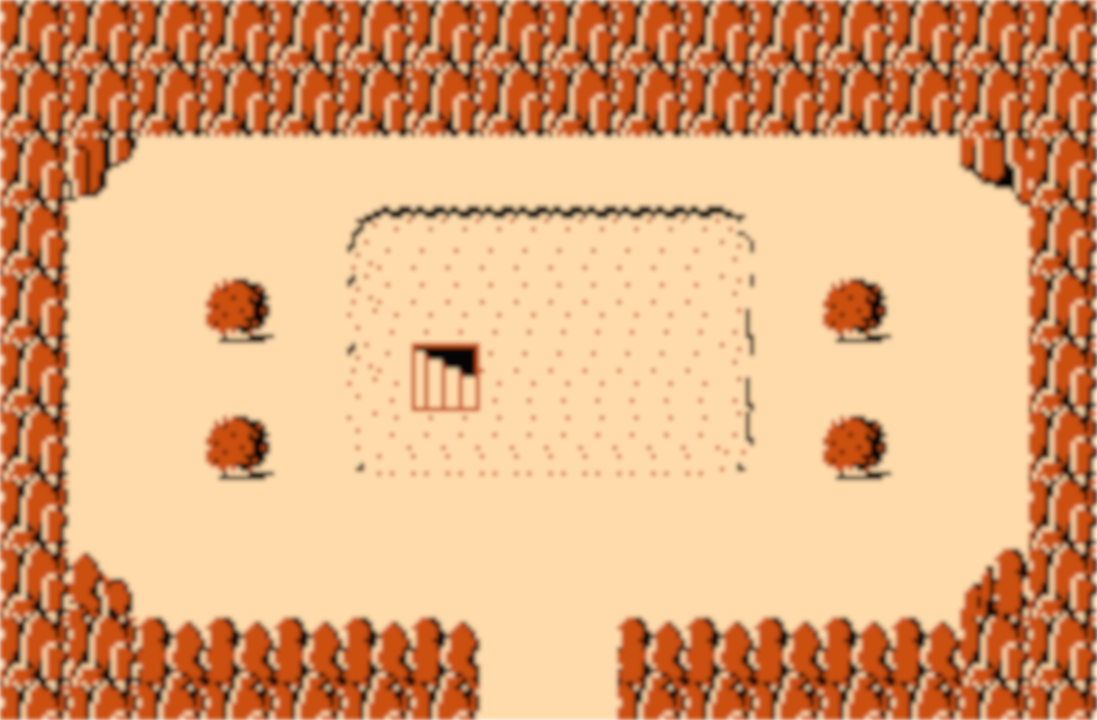
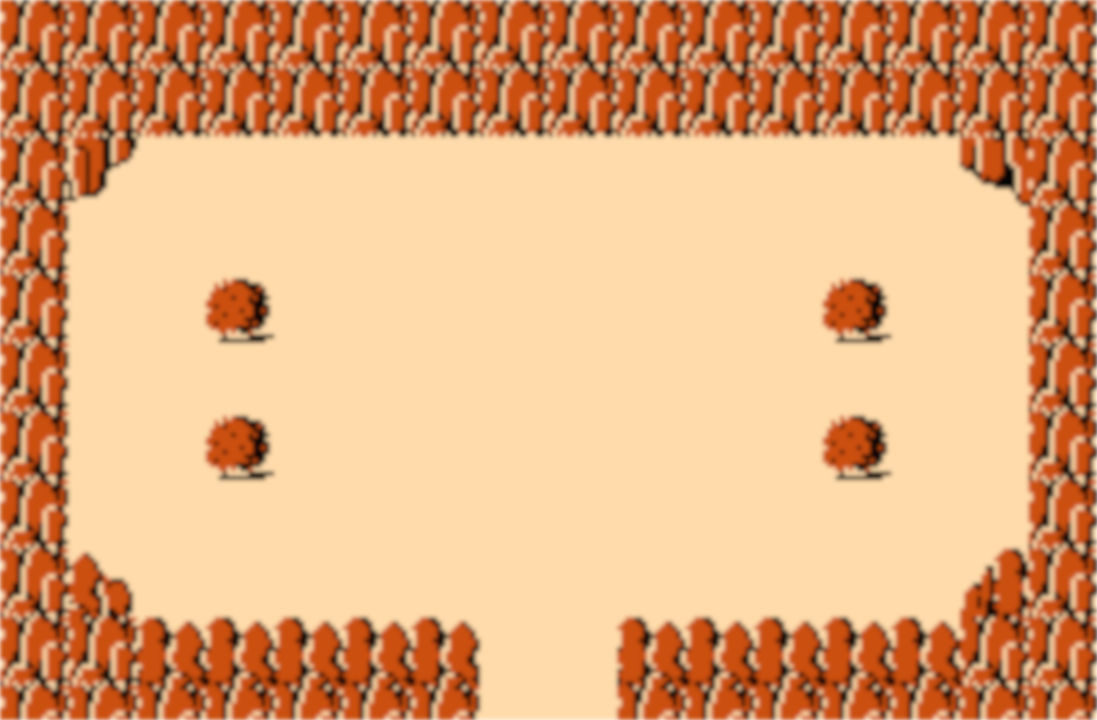
Smooth movement right

diff --git a/CombatMode.py b/CombatMode.py
@@ -121,9 +121,9 @@ FPS = 30
 clock = pygame.time.Clock()
 
 
-def goto(tobechangedelmt):
+def goto(elmt,KeepRight,KeepLeft):
     #x,y=tup[0]-man.width/2,tup[1]-man.heigth/2-8
-    if tobechangedelmt == Hex(1, 0):  #Hex to right
+    if elmt == Hex(1, 0):  #Hex to right
         man.right = True
         stepnumber = int((2 * largeurHex) // man.change)
         horizon_step = man.change
@@ -136,9 +136,9 @@ def goto(tobechangedelmt):
         man.playerX += 2 * largeurHex - stepnumber * horizon_step
         redraw_window()
         pygame.display.update()
-        man.right = False
+        if not(KeepRight):man.right = False
 
-    if tobechangedelmt == Hex(0, 1):  #Hex down right
+    if elmt == Hex(0, 1):  #Hex down right
         man.right = True
         stepnumber = int(
             sqrt(largeurHex * largeurHex + 4 * hauteurHex * hauteurHex) //
@@ -160,9 +160,9 @@ def goto(tobechangedelmt):
                         sin(pi / 6)) - stepnumber * vertical_step + 2
         redraw_window()
         pygame.display.update()
-        man.right = False
+        if not(KeepRight):man.right = False
 
-    if tobechangedelmt == Hex(-1, 1):  #Hex down left
+    if elmt == Hex(-1, 1):  #Hex down left
         man.left = True
         stepnumber = int(
             sqrt(largeurHex * largeurHex + 4 * hauteurHex * hauteurHex) //
@@ -183,7 +183,7 @@ def goto(tobechangedelmt):
         pygame.display.update()
         man.left = False
 
-    if tobechangedelmt == Hex(-1, 0):  #Hex to left
+    if elmt == Hex(-1, 0):  #Hex to left
         man.left = True
         stepnumber = int((2 * largeurHex) // man.change)
         horizon_step = man.change
@@ -198,7 +198,7 @@ def goto(tobechangedelmt):
         pygame.display.update()
         man.left = False
 
-    if tobechangedelmt == Hex(0, -1):  #Hex up left
+    if elmt == Hex(0, -1):  #Hex up left
         man.left = True
         stepnumber = int(
             sqrt(largeurHex * largeurHex + 4 * hauteurHex * hauteurHex) //
@@ -219,7 +219,7 @@ def goto(tobechangedelmt):
         pygame.display.update()
         man.left = False
 
-    if tobechangedelmt == Hex(1, -1):  #Hex up right
+    if elmt == Hex(1, -1):  #Hex up right
         man.right = True
         stepnumber = int(
             sqrt(largeurHex * largeurHex + 4 * hauteurHex * hauteurHex) //
@@ -241,7 +241,7 @@ def goto(tobechangedelmt):
                         sin(pi / 6)) - stepnumber * vertical_step + 2
         redraw_window()
         pygame.display.update()
-        man.right = False
+        if not(KeepRight):man.right = False
     #man.playerX = int(x)
     #man.playerY = int(y)
     redraw_window()
@@ -273,26 +273,36 @@ while run:
     #pygame.draw.polygon(screen,(0,0,0),hex_corner(layout,pixel_to_hex(layout,(x,y))))
 
     if mouse[2] and listecase == []:  #Right click
-        print(x, y)
+        #print(x, y)
         hextogo = pixel_to_hex(layout, (x, y))
 
         #print(poshex)
-        print(hextogo)
+        #print(hextogo)
         if hextogo in Grid:
             listecase = pathfinding(poshex, hextogo, Grid)
             print(listecase)
 
-    if i != len(listecase):
-        goto(listecase[i] - poshex)
+    if i < (len(listecase)-1) and listecase!=[]:
+        if listecase[i+1]-listecase[i] in [Hex(1, -1),Hex(0, 1),Hex(1,0)] and listecase[i]-poshex in [Hex(1, -1),Hex(0, 1),Hex(1,0)]:
+            KeepRight=True
+        elif listecase[i+1]-listecase[i] in [Hex(0, -1),Hex(-1, 0),Hex(-1, 1)] and listecase[i]-poshex in [Hex(0, -1),Hex(-1, 0),Hex(-1, 1)]:
+            KeepLeft=True
+        else:
+            KeepRight,KeepLeft=False,False
+        
+
+        goto(listecase[i] - poshex,KeepRight,KeepLeft)
         poshex = listecase[i]
         i += 1
-        clock.tick(5)
+        #clock.tick(5)
+    elif i == (len(listecase)-1) and listecase!=[]:
+        goto(listecase[i] - poshex,False,False)
+        poshex = listecase[i]
+        i += 1
     else:
         listecase = []
         i = 0
 
-    if keys[8]:
-        print(8)
     """
     if keys[pygame.K_LEFT] and man.playerX > man.change:
         man.playerX -= man.change
